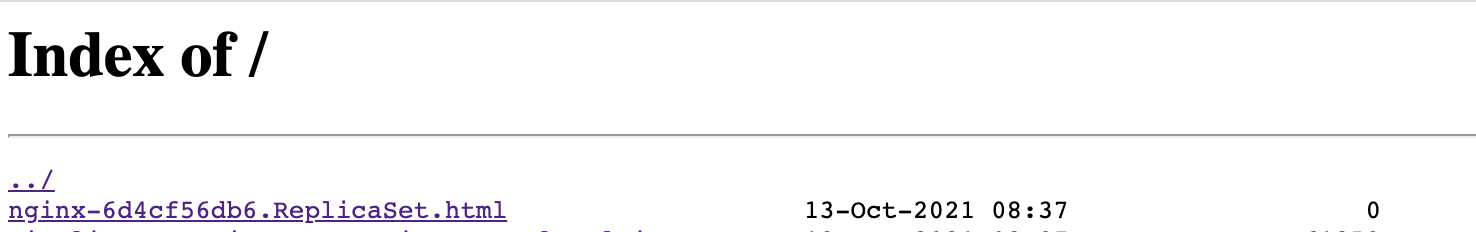
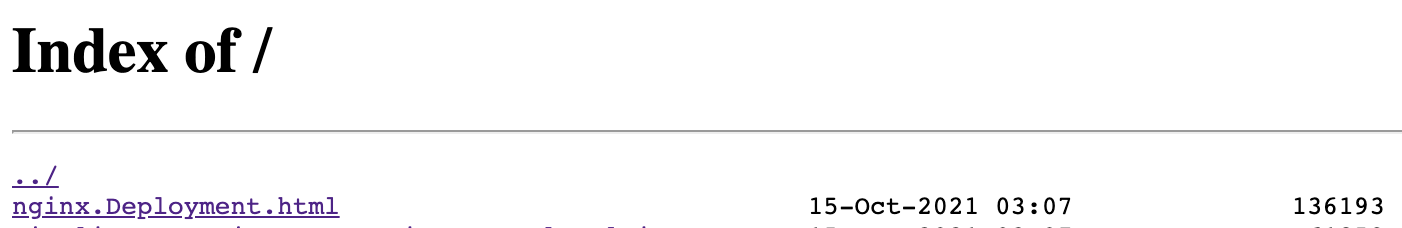
remove report when workload delete

diff --git a/controllers/configauditreport_controller.go b/controllers/configauditreport_controller.go
@@ -18,8 +18,11 @@ package controllers
 
 import (
 	"context"
+	"os"
 	"os/exec"
+	"strings"
 
+	cache "github.com/patrickmn/go-cache"
 	v1 "k8s.io/api/apps/v1"
 	"k8s.io/apimachinery/pkg/api/errors"
 	"k8s.io/apimachinery/pkg/runtime"
@@ -33,7 +36,8 @@ import (
 )
 
 const (
-	reportPath = "/report/"
+	reportPath    = "/report/"
+	finalizerName = "aquasecurity.starboard/finalizer"
 )
 
 // ConfigAuditReportReconciler reconciles a ConfigAuditReport object
@@ -41,6 +45,7 @@ type ConfigAuditReportReconciler struct {
 	client.Client
 	Scheme           *runtime.Scheme
 	NamespaceWatched string
+	Cache            *cache.Cache
 }
 
 // Reconcile is part of the main kubernetes reconciliation loop which aims to
@@ -53,8 +58,6 @@ type ConfigAuditReportReconciler struct {
 // For more details, check Reconcile and its Result here:
 // - https://pkg.go.dev/sigs.k8s.io/controller-runtime@v0.8.3/pkg/reconcile
 func (r *ConfigAuditReportReconciler) Reconcile(ctx context.Context, req ctrl.Request) (ctrl.Result, error) {
-	logger := log.FromContext(ctx)
-
 	// your logic here
 	// Fetch the ConfigAuditReport instance
 	instance := &aquasecurityv1alpha1.ConfigAuditReport{}
@@ -70,51 +73,56 @@ func (r *ConfigAuditReportReconciler) Reconcile(ctx context.Context, req ctrl.Re
 		return reconcile.Result{}, err
 	}
 
-	if !instance.ObjectMeta.DeletionTimestamp.IsZero() {
-		// The object is not being deleted, so do nothing
+	workloadInfo, err := r.getWorkloadInfo(instance)
+	if err != nil {
+		return reconcile.Result{}, err
+	}
+
+	// if !instance.ObjectMeta.DeletionTimestamp.IsZero() {
+	// 	// The object is not being deleted, so do nothing
+	// 	logger.Info("Remove the original report")
+	// 	logger.Info("workloadInfo")
+	// 	err := r.removeReport(workloadInfo)
+	// 	if err != nil {
+	// 		return reconcile.Result{}, err
+	// 	}
+	// 	return reconcile.Result{}, nil
+	// }
+
+	// examine DeletionTimestamp to determine if object is under deletion
+	if instance.ObjectMeta.DeletionTimestamp.IsZero() {
+		// The object is not being deleted, so if it does not have our finalizer,
+		// then lets add the finalizer and update the object. This is equivalent
+		// registering our finalizer.
+		if !containsString(instance.GetFinalizers(), finalizerName) {
+			addFinalizer(instance, finalizerName)
+			if err := r.Client.Update(context.TODO(), instance); err != nil {
+				return reconcile.Result{}, err
+			}
+		}
+	} else {
+		// The object is being deleted
+		if containsString(instance.GetFinalizers(), finalizerName) {
+			// our finalizer is present, so lets handle any external dependency
+			if err := r.removeReport(workloadInfo); err != nil {
+				// if fail to delete the external dependency here, return with error
+				// so that it can be retried
+				return reconcile.Result{}, err
+			}
+
+			// remove our finalizer from the list and update it.
+			removeFinalizer(instance, finalizerName)
+			if err := r.Client.Update(context.TODO(), instance); err != nil {
+				return reconcile.Result{}, err
+			}
+		}
+
+		// Stop reconciliation as the item is being deleted
 		return reconcile.Result{}, nil
 	}
 
-	// get owner of instance, maybe Replicaset, Pod .etc
-	var ownerType, ownerName string
-	for _, ref := range instance.GetOwnerReferences() {
-		ownerType = ref.Kind
-		ownerName = ref.Name
-		break
-	}
-
-	// if report's owner is ReplicaSet, then found the owner of the ReplicaSet, the Deployment
-	if ownerType == "ReplicaSet" {
-		nameNamespace := types.NamespacedName{
-			Name:      ownerName,
-			Namespace: req.NamespacedName.Namespace,
-		}
-
-		ownerReplicaSet := &v1.ReplicaSet{}
-		err := r.Client.Get(context.TODO(), nameNamespace, ownerReplicaSet)
-		if err != nil {
-			if errors.IsNotFound(err) {
-				return reconcile.Result{}, nil
-			}
-			// Error reading the object - requeue the request.
-			return reconcile.Result{}, err
-		}
-
-		for _, ref := range ownerReplicaSet.GetOwnerReferences() {
-			ownerType = ref.Kind
-			ownerName = ref.Name
-			break
-		}
-	}
-
-	command := r.buildCommand(ownerType, ownerName)
-	logger.Info(command)
-	// try to run the command here: "starboard get report deployment/nginx > nginx.deploy.html"
-	cmd := exec.Command("sh", "-c", command)
-	logger.Info("Exporting report and waiting for it to finish...")
-	err = cmd.Run()
+	err = r.generateReport(ctx, workloadInfo)
 	if err != nil {
-		logger.Error(err, "Exporting report finished with error")
 		return reconcile.Result{}, err
 	}
 
@@ -128,7 +136,138 @@ func (r *ConfigAuditReportReconciler) SetupWithManager(mgr ctrl.Manager) error {
 		Complete(r)
 }
 
+func (r *ConfigAuditReportReconciler) getWorkloadInfo(instance *aquasecurityv1alpha1.ConfigAuditReport) (string, error) {
+	itemKey := instance.Namespace + "/" + instance.Name
+	workloadInfo, found := r.Cache.Get(itemKey)
+	if found {
+		return workloadInfo.(string), nil
+	}
+
+	ownerType, ownerName, err := r.findOwner(instance)
+	if err != nil {
+		return "", err
+	}
+
+	workloadInfo = ownerType + "|" + ownerName
+	r.Cache.Set(itemKey, workloadInfo, cache.NoExpiration)
+
+	return workloadInfo.(string), nil
+}
+
+func (r *ConfigAuditReportReconciler) generateReport(ctx context.Context, workloadInfo string) error {
+	logger := log.FromContext(ctx)
+
+	command := r.buildCommand(workloadInfo)
+	logger.Info(command)
+	// try to run the command here: "starboard get report deployment/nginx > nginx.deploy.html"
+	cmd := exec.Command("sh", "-c", command)
+	logger.Info("Exporting report and waiting for it to finish...")
+	err := cmd.Run()
+	if err != nil {
+		logger.Error(err, "Exporting report finished with error")
+		return err
+	}
+
+	return nil
+}
+
+func (r *ConfigAuditReportReconciler) removeReport(workloadInfo string) error {
+	workloadInfos := strings.Split(workloadInfo, "|")
+	workloadType := workloadInfos[0]
+	workloadName := workloadInfos[1]
+
+	err := os.Remove(buildReportName(workloadType, workloadName))
+	if err != nil {
+		return err
+	}
+
+	return nil
+}
+
 // try to run the command here: "starboard get report deployment/nginx > nginx.deploy.html"
-func (r *ConfigAuditReportReconciler) buildCommand(workloadType, workloadName string) string {
-	return "starboard -n " + r.NamespaceWatched + " get report " + workloadType + "/" + workloadName + " > " + reportPath + workloadName + "." + workloadType + ".html"
+func (r *ConfigAuditReportReconciler) buildCommand(workloadInfo string) string {
+	workloadInfos := strings.Split(workloadInfo, "|")
+	workloadType := workloadInfos[0]
+	workloadName := workloadInfos[1]
+
+	return "starboard -n " + r.NamespaceWatched + " get report " + workloadType + "/" + workloadName + " > " + buildReportName(workloadType, workloadName)
+}
+
+func buildReportName(workloadType, workloadName string) string {
+	return reportPath + workloadName + "." + workloadType + ".html"
+}
+
+func (r *ConfigAuditReportReconciler) findOwner(instance *aquasecurityv1alpha1.ConfigAuditReport) (string, string, error) {
+	// get owner of instance, maybe Replicaset, Pod .etc
+	var ownerType, ownerName string
+	for _, ref := range instance.GetOwnerReferences() {
+		ownerType = ref.Kind
+		ownerName = ref.Name
+		break
+	}
+
+	// if report's owner is ReplicaSet, then found the owner of the ReplicaSet, the Deployment
+	if ownerType == "ReplicaSet" {
+		nameNamespace := types.NamespacedName{
+			Name:      ownerName,
+			Namespace: instance.Namespace,
+		}
+
+		ownerReplicaSet := &v1.ReplicaSet{}
+		err := r.Client.Get(context.TODO(), nameNamespace, ownerReplicaSet)
+		if err != nil {
+			return "", "", err
+		}
+
+		for _, ref := range ownerReplicaSet.GetOwnerReferences() {
+			ownerType = ref.Kind
+			ownerName = ref.Name
+			break
+		}
+	}
+
+	return ownerType, ownerName, nil
+}
+
+// Helper functions to check and remove string from a slice of strings.
+func containsString(slice []string, s string) bool {
+	for _, item := range slice {
+		if item == s {
+			return true
+		}
+	}
+	return false
+}
+
+func removeString(slice []string, s string) (result []string) {
+	for _, item := range slice {
+		if item == s {
+			continue
+		}
+		result = append(result, item)
+	}
+	return
+}
+
+// AddFinalizer accepts an Object and adds the provided finalizer if not present.
+func addFinalizer(o *aquasecurityv1alpha1.ConfigAuditReport, finalizer string) {
+	f := o.GetFinalizers()
+	for _, e := range f {
+		if e == finalizer {
+			return
+		}
+	}
+	o.SetFinalizers(append(f, finalizer))
+}
+
+// RemoveFinalizer accepts an Object and removes the provided finalizer if present.
+func removeFinalizer(o *aquasecurityv1alpha1.ConfigAuditReport, finalizer string) {
+	f := o.GetFinalizers()
+	for i := 0; i < len(f); i++ {
+		if f[i] == finalizer {
+			f = append(f[:i], f[i+1:]...)
+			i--
+		}
+	}
+	o.SetFinalizers(f)
 }

diff --git a/main.go b/main.go
@@ -24,6 +24,7 @@ import (
 	// to ensure that exec-entrypoint and run can make use of them.
 	_ "k8s.io/client-go/plugin/pkg/client/auth"
 
+	cache "github.com/patrickmn/go-cache"
 	"k8s.io/apimachinery/pkg/runtime"
 	utilruntime "k8s.io/apimachinery/pkg/util/runtime"
 	clientgoscheme "k8s.io/client-go/kubernetes/scheme"
@@ -82,10 +83,13 @@ func main() {
 		os.Exit(1)
 	}
 
+	c := cache.New(0, 0)
+
 	if err = (&controllers.ConfigAuditReportReconciler{
 		Client:           mgr.GetClient(),
 		Scheme:           mgr.GetScheme(),
 		NamespaceWatched: namespaceWatched,
+		Cache:            c,
 	}).SetupWithManager(mgr); err != nil {
 		setupLog.Error(err, "unable to create controller", "controller", "ConfigAuditReport")
 		os.Exit(1)

diff --git a/README.md b/README.md
@@ -40,4 +40,4 @@ So, the repo will be part of `application`'s artifact, act as a security/complia
    ![starboard](./report.png)
 
 
-For now, the application will watch `namespace`: default, want to change it, please update the configuration in [config](./config/default/configmap.yaml)
+For now, the application will watch `namespace`: default, want to change it, please update the configuration in [config](./config/default/configmap.yaml).
